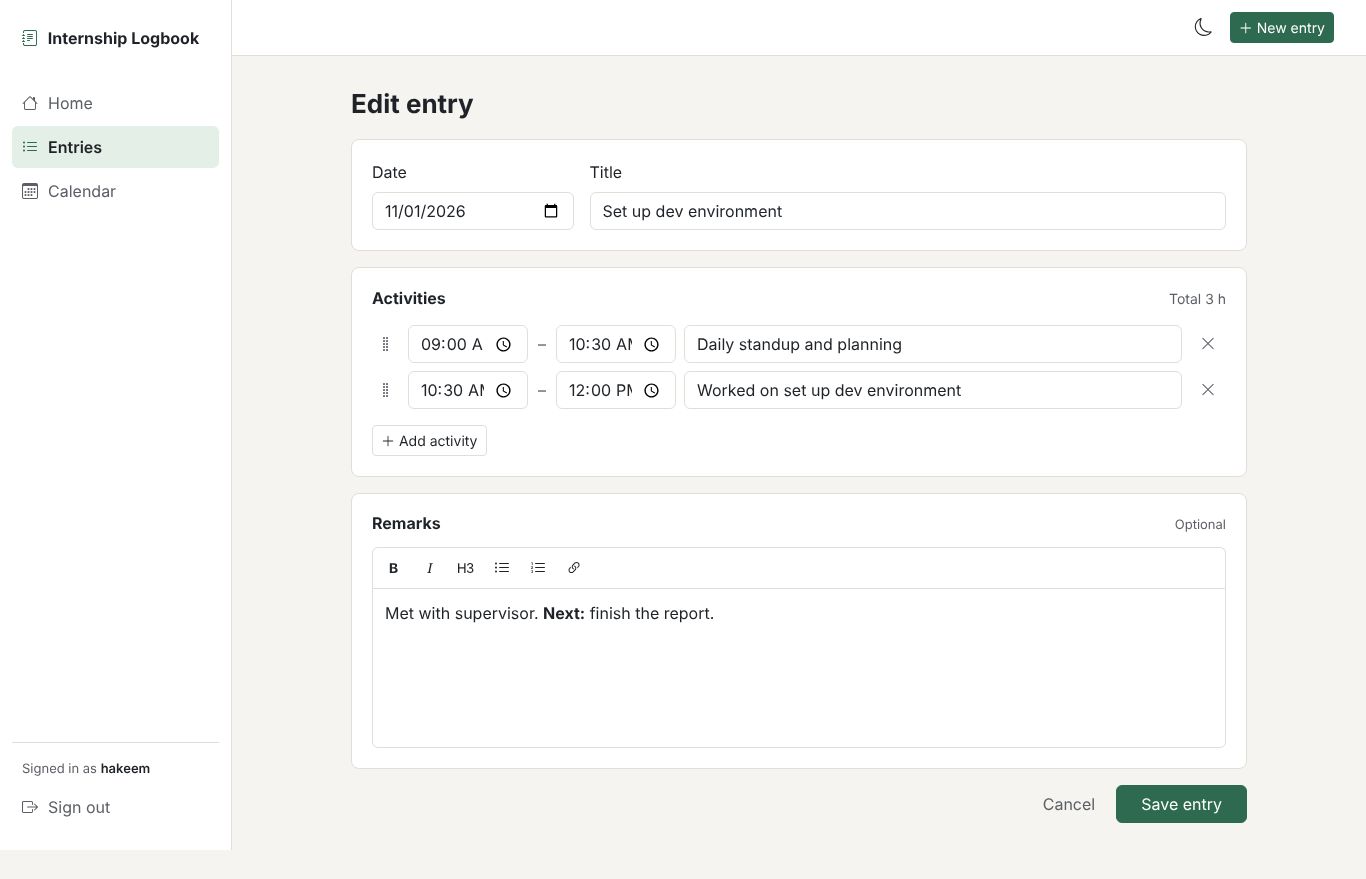
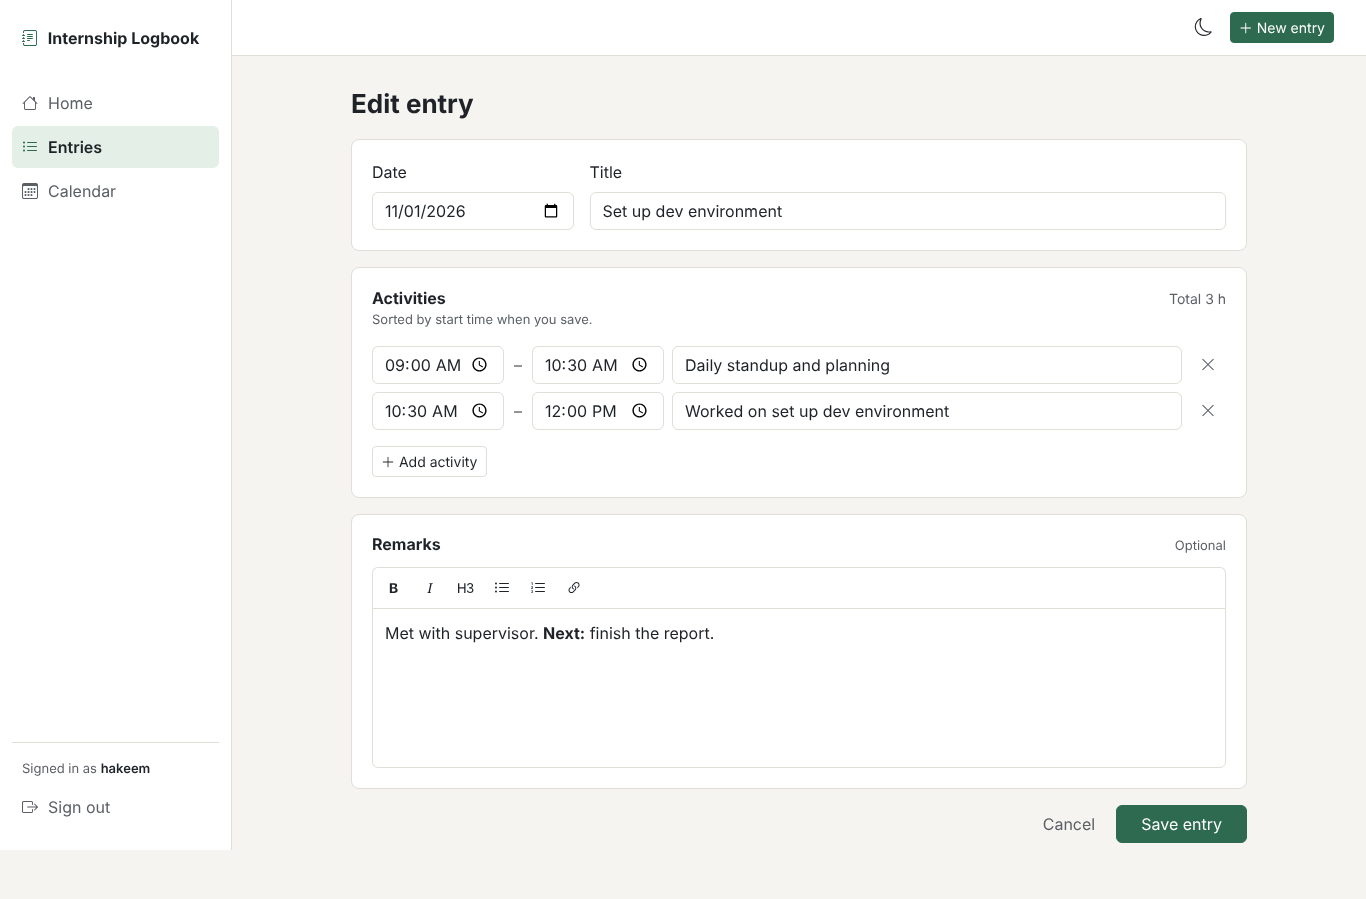
Sort activities by start time instead of manual reordering
- Activities are sorted by start time when an entry is saved
- Activities are read by start time, so entries saved with a manual order also show in time order
- Remove the drag handle, keyboard reordering and the unused reorder endpoint
- Widen time inputs so the AM/PM part is not cut off

diff --git a/static/js/app.js b/static/js/app.js
@@ -115,42 +115,6 @@ function setUpEntryEditor(form) {
       if (item.nextElementSibling) item.nextElementSibling.querySelector('.activity-start').focus();
       else addRow();
     }
-    // Keyboard reordering on the handle
-    if (event.target.closest('.drag-handle') && (event.key === 'ArrowUp' || event.key === 'ArrowDown')) {
-      event.preventDefault();
-      const item = event.target.closest('.activity-item');
-      const sibling = event.key === 'ArrowUp' ? item.previousElementSibling : item.nextElementSibling;
-      if (!sibling) return;
-      if (event.key === 'ArrowUp') list.insertBefore(item, sibling); else list.insertBefore(sibling, item);
-      item.querySelector('.drag-handle').focus();
-      unsaved = true;
-    }
-  });
-
-  // Drag only from the handle, so selecting text inside the inputs still works.
-  let dragging = null;
-  list.addEventListener('pointerdown', (event) => {
-    const handle = event.target.closest('.drag-handle');
-    if (handle) handle.closest('.activity-item').draggable = true;
-  });
-  list.addEventListener('dragstart', (event) => {
-    dragging = event.target.closest('.activity-item');
-    dragging?.classList.add('is-dragging');
-  });
-  list.addEventListener('dragover', (event) => {
-    if (!dragging) return;
-    event.preventDefault();
-    const target = event.target.closest('.activity-item');
-    if (!target || target === dragging) return;
-    const after = event.clientY > target.getBoundingClientRect().top + target.offsetHeight / 2;
-    list.insertBefore(dragging, after ? target.nextElementSibling : target);
-  });
-  list.addEventListener('dragend', () => {
-    if (!dragging) return;
-    dragging.classList.remove('is-dragging');
-    dragging.draggable = false;
-    dragging = null;
-    unsaved = true;
   });
 
   list.addEventListener('input', refresh);

diff --git a/static/css/style.css b/static/css/style.css
@@ -196,6 +196,7 @@ a { color: var(--accent); }
 .summary-line { color: var(--muted); font-size: 14px; }
 .optional { color: var(--muted); font-size: 13px; }
 .total-time { color: var(--muted); font-size: 14px; }
+.section-hint { margin: 2px 0 0; color: var(--muted); font-size: 13px; }
 
 /* Home: today's status */
 .today-panel {
@@ -321,29 +322,17 @@ a.week-day:hover { border-style: solid; border-color: var(--accent); color: var(
 
 .activity-item {
   display: grid;
-  grid-template-columns: 28px 120px 12px 120px 1fr 36px;
+  grid-template-columns: 132px 12px 132px 1fr 36px;
   align-items: center;
   gap: 8px;
   padding: 4px 0;
   border-radius: 6px;
 }
 
-.activity-item.is-dragging { opacity: .5; }
-
 .activity-item > * { min-width: 0; }
 .activity-dash { text-align: center; color: var(--muted); }
 .activity-item .is-invalid { border-color: var(--bs-form-invalid-border-color); background-image: none; padding-right: .75rem; }
 
-.drag-handle {
-  height: 36px;
-  border: 0;
-  border-radius: 6px;
-  background: none;
-  color: var(--muted);
-  cursor: grab;
-}
-
-.drag-handle:hover { background: var(--hover); }
 .remove-activity { color: var(--muted); font-size: 15px; }
 
 .rich-toolbar {
@@ -490,14 +479,12 @@ a.calendar-day:focus-visible .day-add { visibility: visible; }
 
   .content-card { padding: 16px 14px; }
 
-  /* Drag and drop does not work with touch, so phones hide the handle and get wider time inputs. */
   .activity-item {
     grid-template-columns: 1fr 10px 1fr 36px;
     gap: 6px;
     padding: 6px 0 12px;
   }
 
-  .activity-item .drag-handle { display: none; }
   .activity-item input[type=time] { padding-left: .5rem; padding-right: .4rem; }
   .activity-item .activity-description { grid-column: 1 / 5; grid-row: 2; }
 

diff --git a/templates/entry_form.html b/templates/entry_form.html
@@ -1,7 +1,6 @@
 {% extends 'base.html' %}{% block title %}{{ 'Edit' if entry else 'New' }} entry · Internship Logbook{% endblock %}{% block content %}
 {% macro activity_row(row) %}
 <li class="activity-item">
-  <button type="button" class="drag-handle" aria-label="Move activity. Drag, or use the up and down arrow keys."><i class="bi bi-grip-vertical"></i></button>
   <input type="time" name="start_time[]" value="{{ row.start }}" class="form-control activity-start" aria-label="Start time">
   <span class="activity-dash" aria-hidden="true">–</span>
   <input type="time" name="end_time[]" value="{{ row.end }}" class="form-control activity-end" aria-label="End time">
@@ -20,7 +19,7 @@
   </section>
 
   <section class="content-card">
-    <div class="section-title"><h2>Activities</h2><span class="total-time" id="totalTime" aria-live="polite"></span></div>
+    <div class="section-title"><div><h2>Activities</h2><p class="section-hint">Sorted by start time when you save.</p></div><span class="total-time" id="totalTime" aria-live="polite"></span></div>
     <ol id="activityList" class="activity-list">{% for row in rows %}{{ activity_row(row) }}{% endfor %}</ol>
     <template id="activityTemplate">{{ activity_row({'start': '', 'end': '', 'text': ''}) }}</template>
     <button type="button" class="btn btn-outline-secondary btn-sm" id="addActivity"><i class="bi bi-plus-lg"></i> Add activity</button>

diff --git a/src/routes.py b/src/routes.py
@@ -3,7 +3,7 @@ from datetime import date, datetime, timedelta
 from io import BytesIO
 
 import bleach
-from flask import Blueprint, abort, flash, jsonify, make_response, redirect, render_template, request, url_for
+from flask import Blueprint, abort, flash, make_response, redirect, render_template, request, url_for
 from flask_login import current_user, login_required
 from reportlab.lib import colors
 from reportlab.lib.pagesizes import A4
@@ -66,8 +66,9 @@ def entry_rows(entry):
 
 
 def save_activities(entry):
-    """Replace an entry's activities with validated rows sent by the editor."""
+    """Replace an entry's activities with validated rows sent by the editor, sorted by start time."""
     entry.activities.clear()
+    activities = []
     for order, row in enumerate(submitted_rows()):
         activity_text, start, end = row["text"].strip(), row["start"], row["end"]
         if not any((activity_text, start, end)):
@@ -82,9 +83,11 @@ def save_activities(entry):
             raise ValueError(f"Activity {number} ends before it starts. Check the times.")
         if not activity_text:
             raise ValueError(f"Activity {number} needs a description.")
-        entry.activities.append(Activity(
-            start_time=start_time, end_time=end_time, activity=activity_text, display_order=order
-        ))
+        activities.append(Activity(start_time=start_time, end_time=end_time, activity=activity_text))
+    activities.sort(key=lambda activity: activity.start_time)
+    for order, activity in enumerate(activities):
+        activity.display_order = order
+        entry.activities.append(activity)
 
 
 @main_bp.route("/")
@@ -202,20 +205,6 @@ def delete_entry(entry_id):
     db.session.commit()
     flash("Logbook entry deleted.", "info")
     return redirect(url_for("main.entries"))
-
-
-@main_bp.post("/entries/<int:entry_id>/activities/reorder")
-@login_required
-def reorder_activities(entry_id):
-    entry = owned_entry(entry_id)
-    ids = request.get_json(silent=True, force=True).get("activity_ids", [])
-    activities = {activity.id: activity for activity in entry.activities}
-    if set(ids) != set(activities):
-        return jsonify({"error": "Invalid activity order."}), 400
-    for order, activity_id in enumerate(ids):
-        activities[activity_id].display_order = order
-    db.session.commit()
-    return jsonify({"status": "ok"})
 
 
 @main_bp.route("/calendar")

diff --git a/src/models.py b/src/models.py
@@ -48,7 +48,7 @@ class LogbookEntry(db.Model):
         "Activity",
         back_populates="logbook_entry",
         cascade="all, delete-orphan",
-        order_by="Activity.display_order",
+        order_by="(Activity.start_time, Activity.display_order)",
     )
 
     @property

diff --git a/README.md b/README.md
@@ -10,7 +10,7 @@ The app lets each user create a personal internship logbook. A daily entry can i
 
 - User registration and login
 - One logbook entry per day for each user
-- Add, edit, delete, and reorder daily activities (drag the handle, or focus it and use the arrow keys; reordering is desktop only for now)
+- Add, edit, and delete daily activities. They are sorted by start time when you save, so the day always reads in order
 - Rich-text remarks for extra details
 - Home page that shows if today is logged and which days this week have entries, so missed days are easy to spot
 - Total hours for each day, worked out from the activity times
